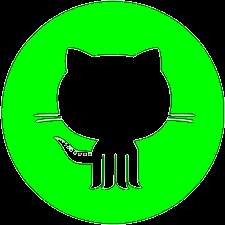
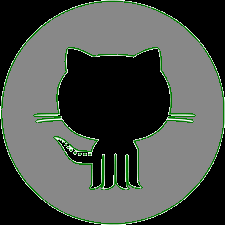
Changed formatting with media queries

diff --git a/src/App.css b/src/App.css
@@ -371,3 +371,15 @@ sup, sub {
 sub { 
   top: 0.4em; 
 }
+
+@media screen and (min-width: 768px) and (max-width: 1279px) {
+  * {
+    color: #0000FF;
+  }
+}
+
+@media screen and (min-width: 1280px) {
+  * {
+    color: #FF0000;
+  }
+}

diff --git a/src/components/Mode.jsx b/src/components/Mode.jsx
@@ -4,7 +4,7 @@ import { Button } from 'semantic-ui-react'
 
 function Mode() {
   const activeStyle = {
-    boxShadow: '0 4px 0 green'
+    boxShadow: '0 6px 0 #888888'
   };
   return (
     <div id="mode">
